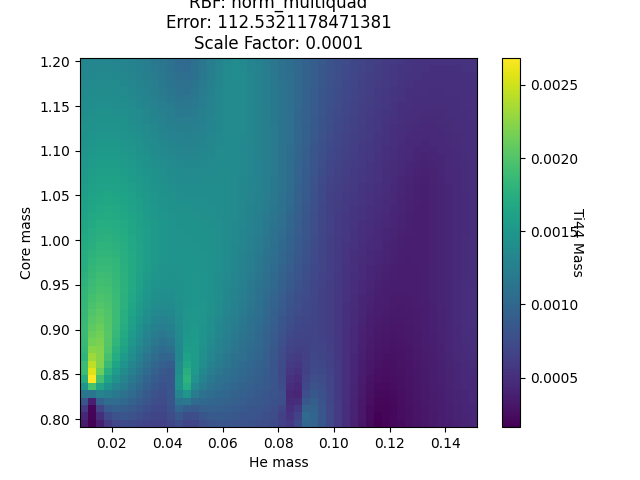
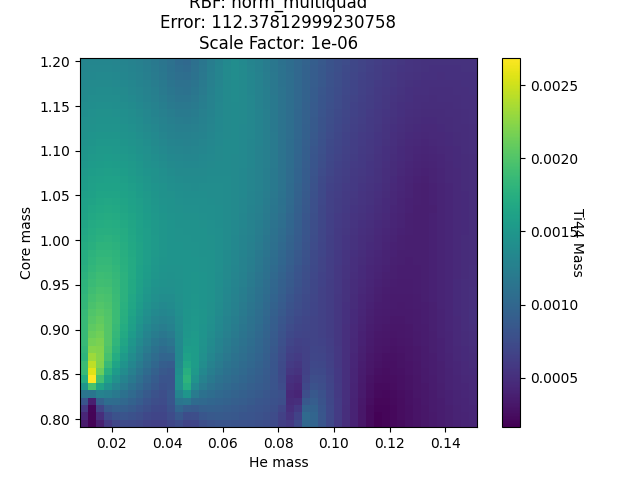
modified optimization method

Changed region(s): [[0.25, 0.0312, 0.625, 0.125], [0.8125, 0.1562, 0.9062, 0.1875]]

diff --git a/Interpolation Code/rbf_interp/rbf_interp.py b/Interpolation Code/rbf_interp/rbf_interp.py
@@ -10,8 +10,7 @@ Scipy.interpolate source code
  * https://github.com/scipy/scipy/blob/main/scipy/interpolate/
 Numerical Recipies section 3.7
 """
-
-import numpy as np
+import numpy as np 
 
 class RBF_interp: 
     # Object for RBF interpolation
@@ -52,9 +51,8 @@ class RBF_interp:
             else: 
                 rhs[i] = self.vals[i]
         
-        # Then to solve the set of equations for weighting vector w
+        # Then to solve the set of equations for weighting vector w 
         self.w = np.linalg.solve(rbf_mat, rhs) 
-
         
 
     def interp(self, pt): 
@@ -98,8 +96,8 @@ class RBF_interp:
 
     def err(self): 
         # calculates average error for the interpolated function 
-        i = 0
         errs = [] 
+        i = 0
         for i in range(self.n): 
             temp_pts = np.delete(self.pts, i, 0) 
             temp_vals = np.delete(self.vals, i, 0) 
@@ -110,10 +108,17 @@ class RBF_interp:
 
     def optimize(self): 
         # modifies self.scale such that self.err() is minimized 
-        temp = RBF_interp(self.pts, self.vals, self.func, self.scale + 0.001, self.norm) 
-        if self.err() > temp.err():
-            self.scale = temp.scale
-            self.optimize() 
-        else: 
-            return None
 
+        # creates dict of scales (values) and corresponding error (keys)
+        # linspace arr params currently apply only to ti_interp data 
+        # should determine a way to set this generally 
+        scales = np.linspace(0.000001, 0.01, 50)
+        err_scl = {} 
+        for i in scales: 
+            temp = RBF_interp(self.pts, self.vals, self.func, i, self.norm) 
+            err_scl.update({temp.err():i}) 
+
+        # then finds minimum value for error 
+        # and updates self.scale accordingly 
+        self.scale = err_scl[min(err_scl.keys())] 
+        return None 

diff --git a/Interpolation Code/rbf_interp/rbf_interp_test.py b/Interpolation Code/rbf_interp/rbf_interp_test.py
@@ -21,24 +21,18 @@ co_arr = pts[:,1]
 he_arr = np.linspace(np.amin(he_arr), np.amax(he_arr), 50) 
 co_arr = np.linspace(np.amin(co_arr), np.amax(co_arr), 50) 
 
-
+"""
+###########
 # Toggle the following for debugging 
+ti_interp = RBF_interp(pts, vals, func = funcs[0], norm = nrbf[0])
+# print(ti_interp.err()) 
+# print(ti_interp.scale)
+###########
 """
-ti_interp = RBF_interp(pts, vals, func = funcs[3], norm = nrbf[1])
-
-print(ti_interp.err()) 
-print(ti_interp.scale) 
-
-ti_interp.optimize() 
-print(ti_interp.err()) 
-print(ti_interp.scale) 
-"""
-
 
 # The following code plots each possible func/normalization 
 # and includes error and optimal scale factor values 
-i = 0 
-j = 0
+"""
 for i in range(len(funcs)): 
     for j in range(len(nrbf)): 
         # set-up interpolating function 
@@ -62,3 +56,4 @@ for i in range(len(funcs)):
         plt.ylabel("Core mass") 
         plt.savefig("../../Plots/rbf_interp_plots/" + label)
         plt.close("all") 
+"""
